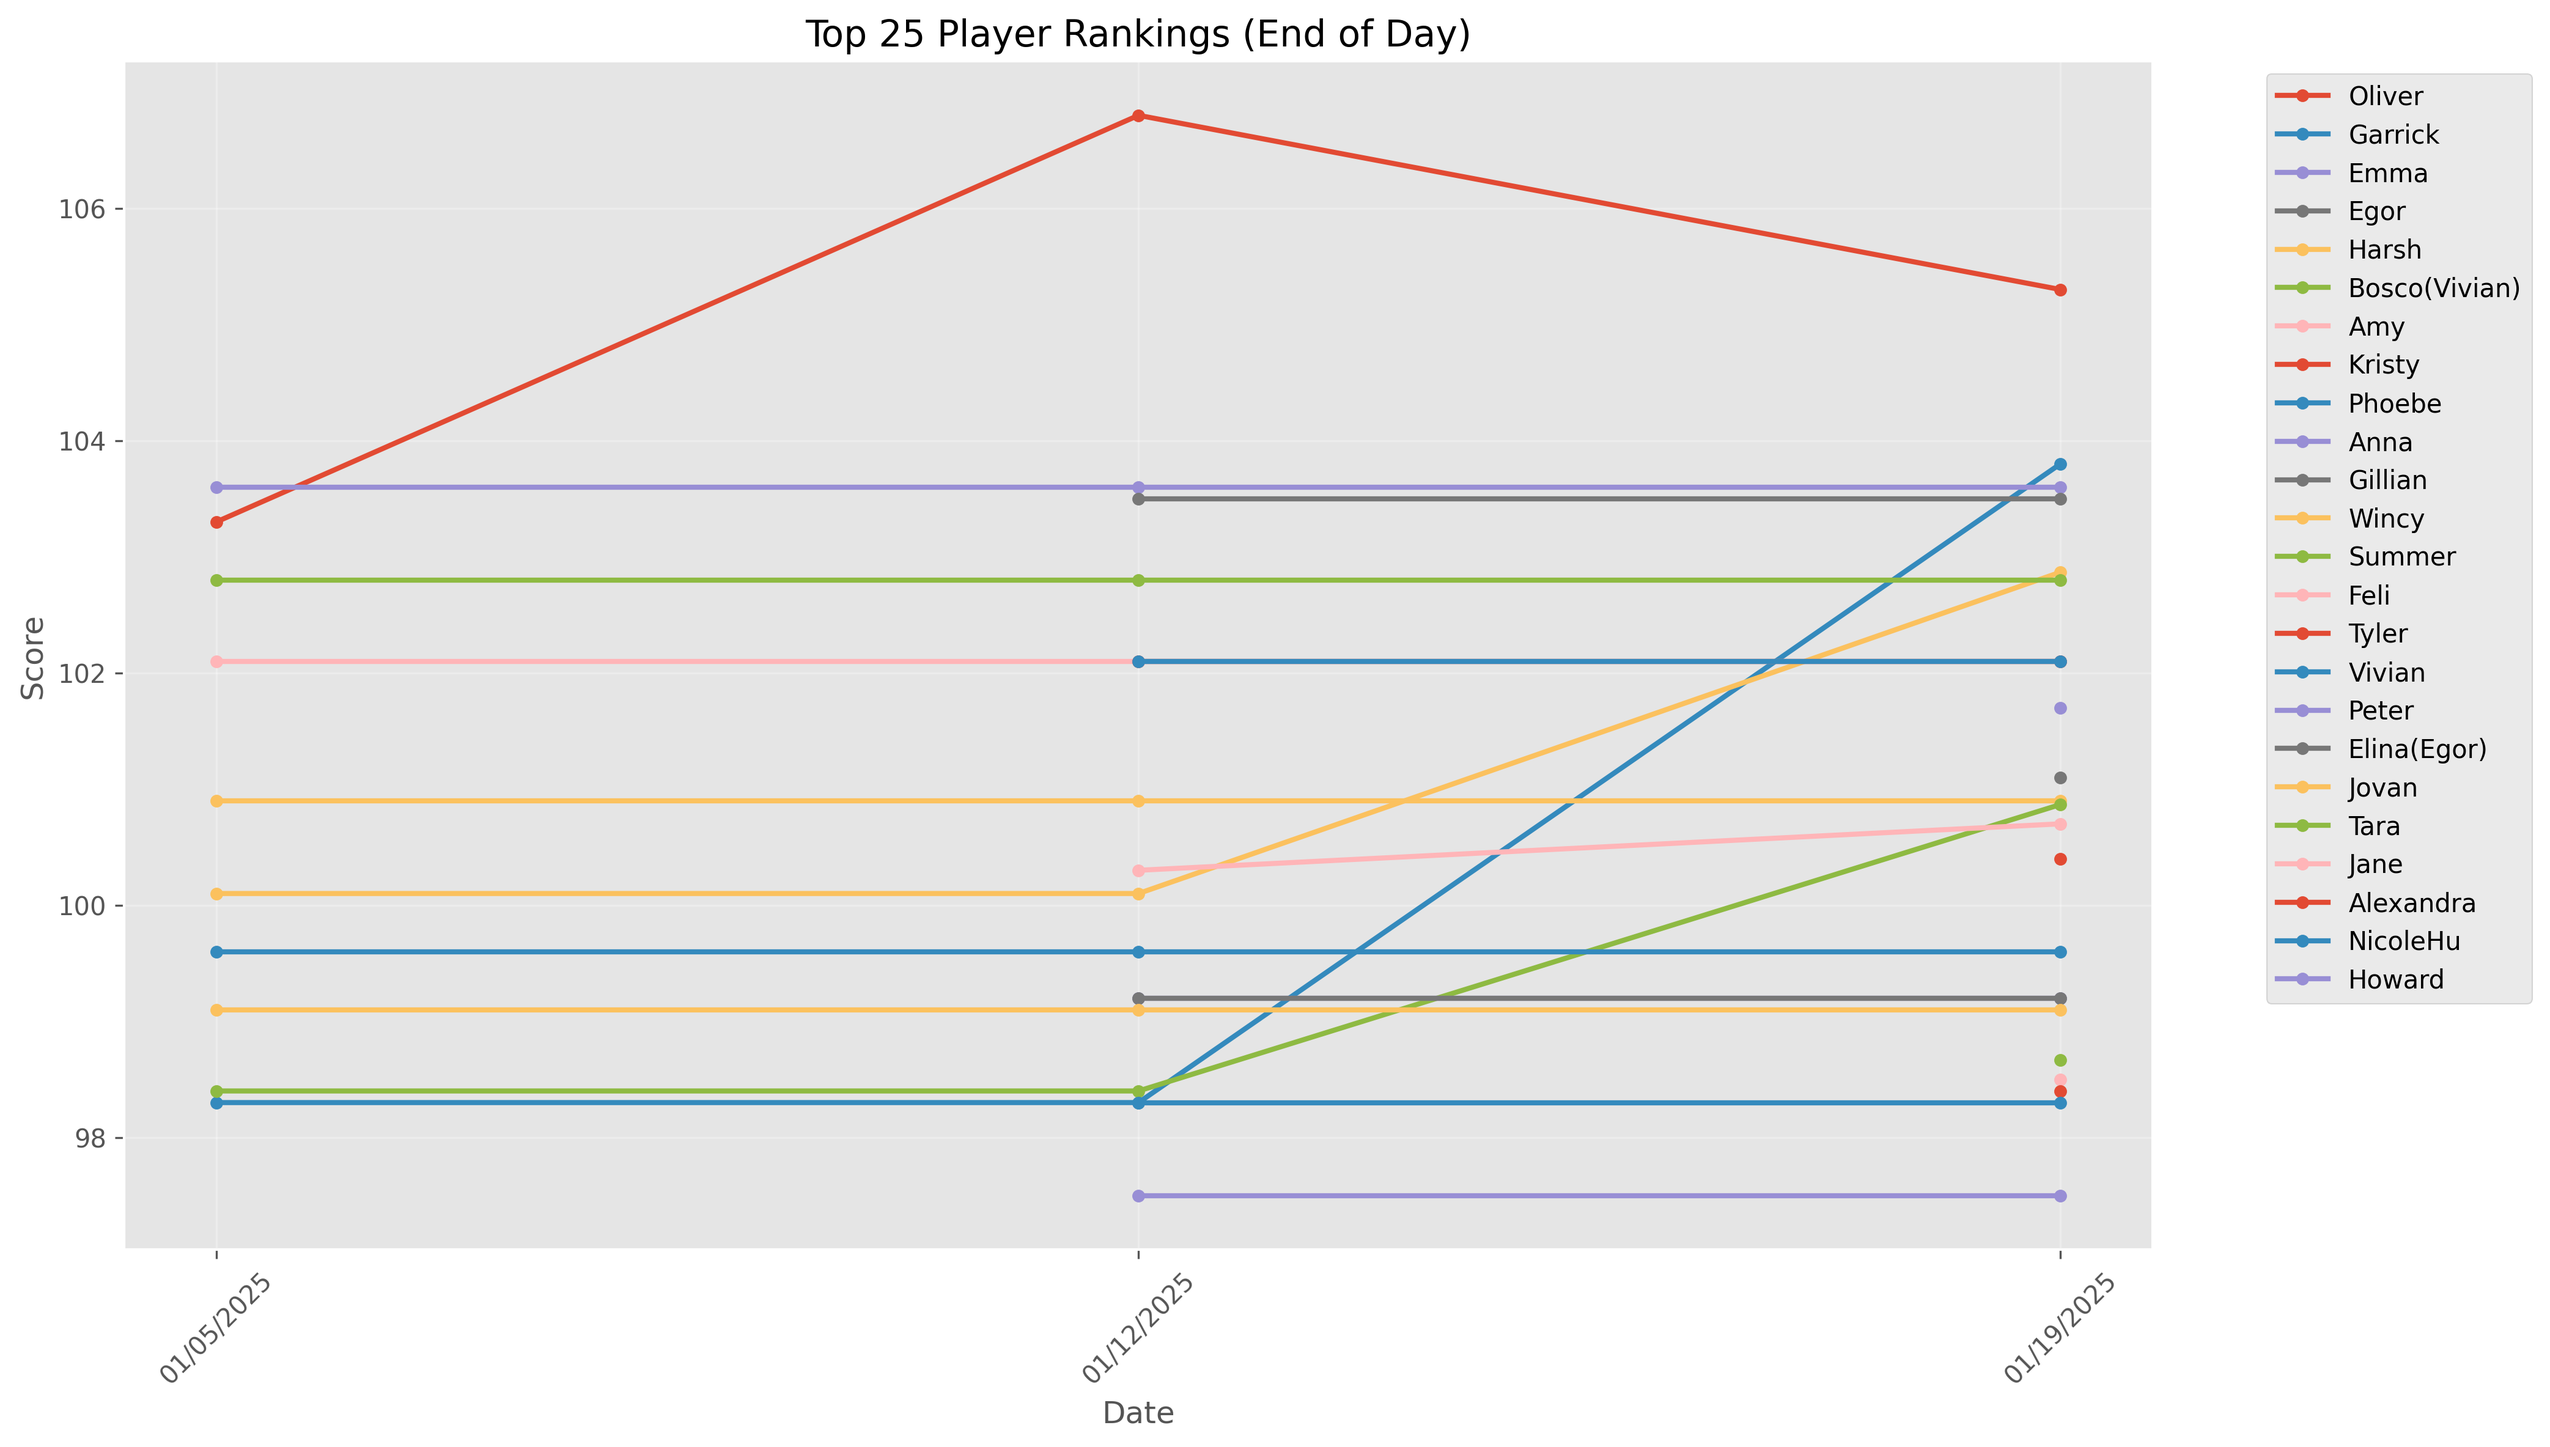
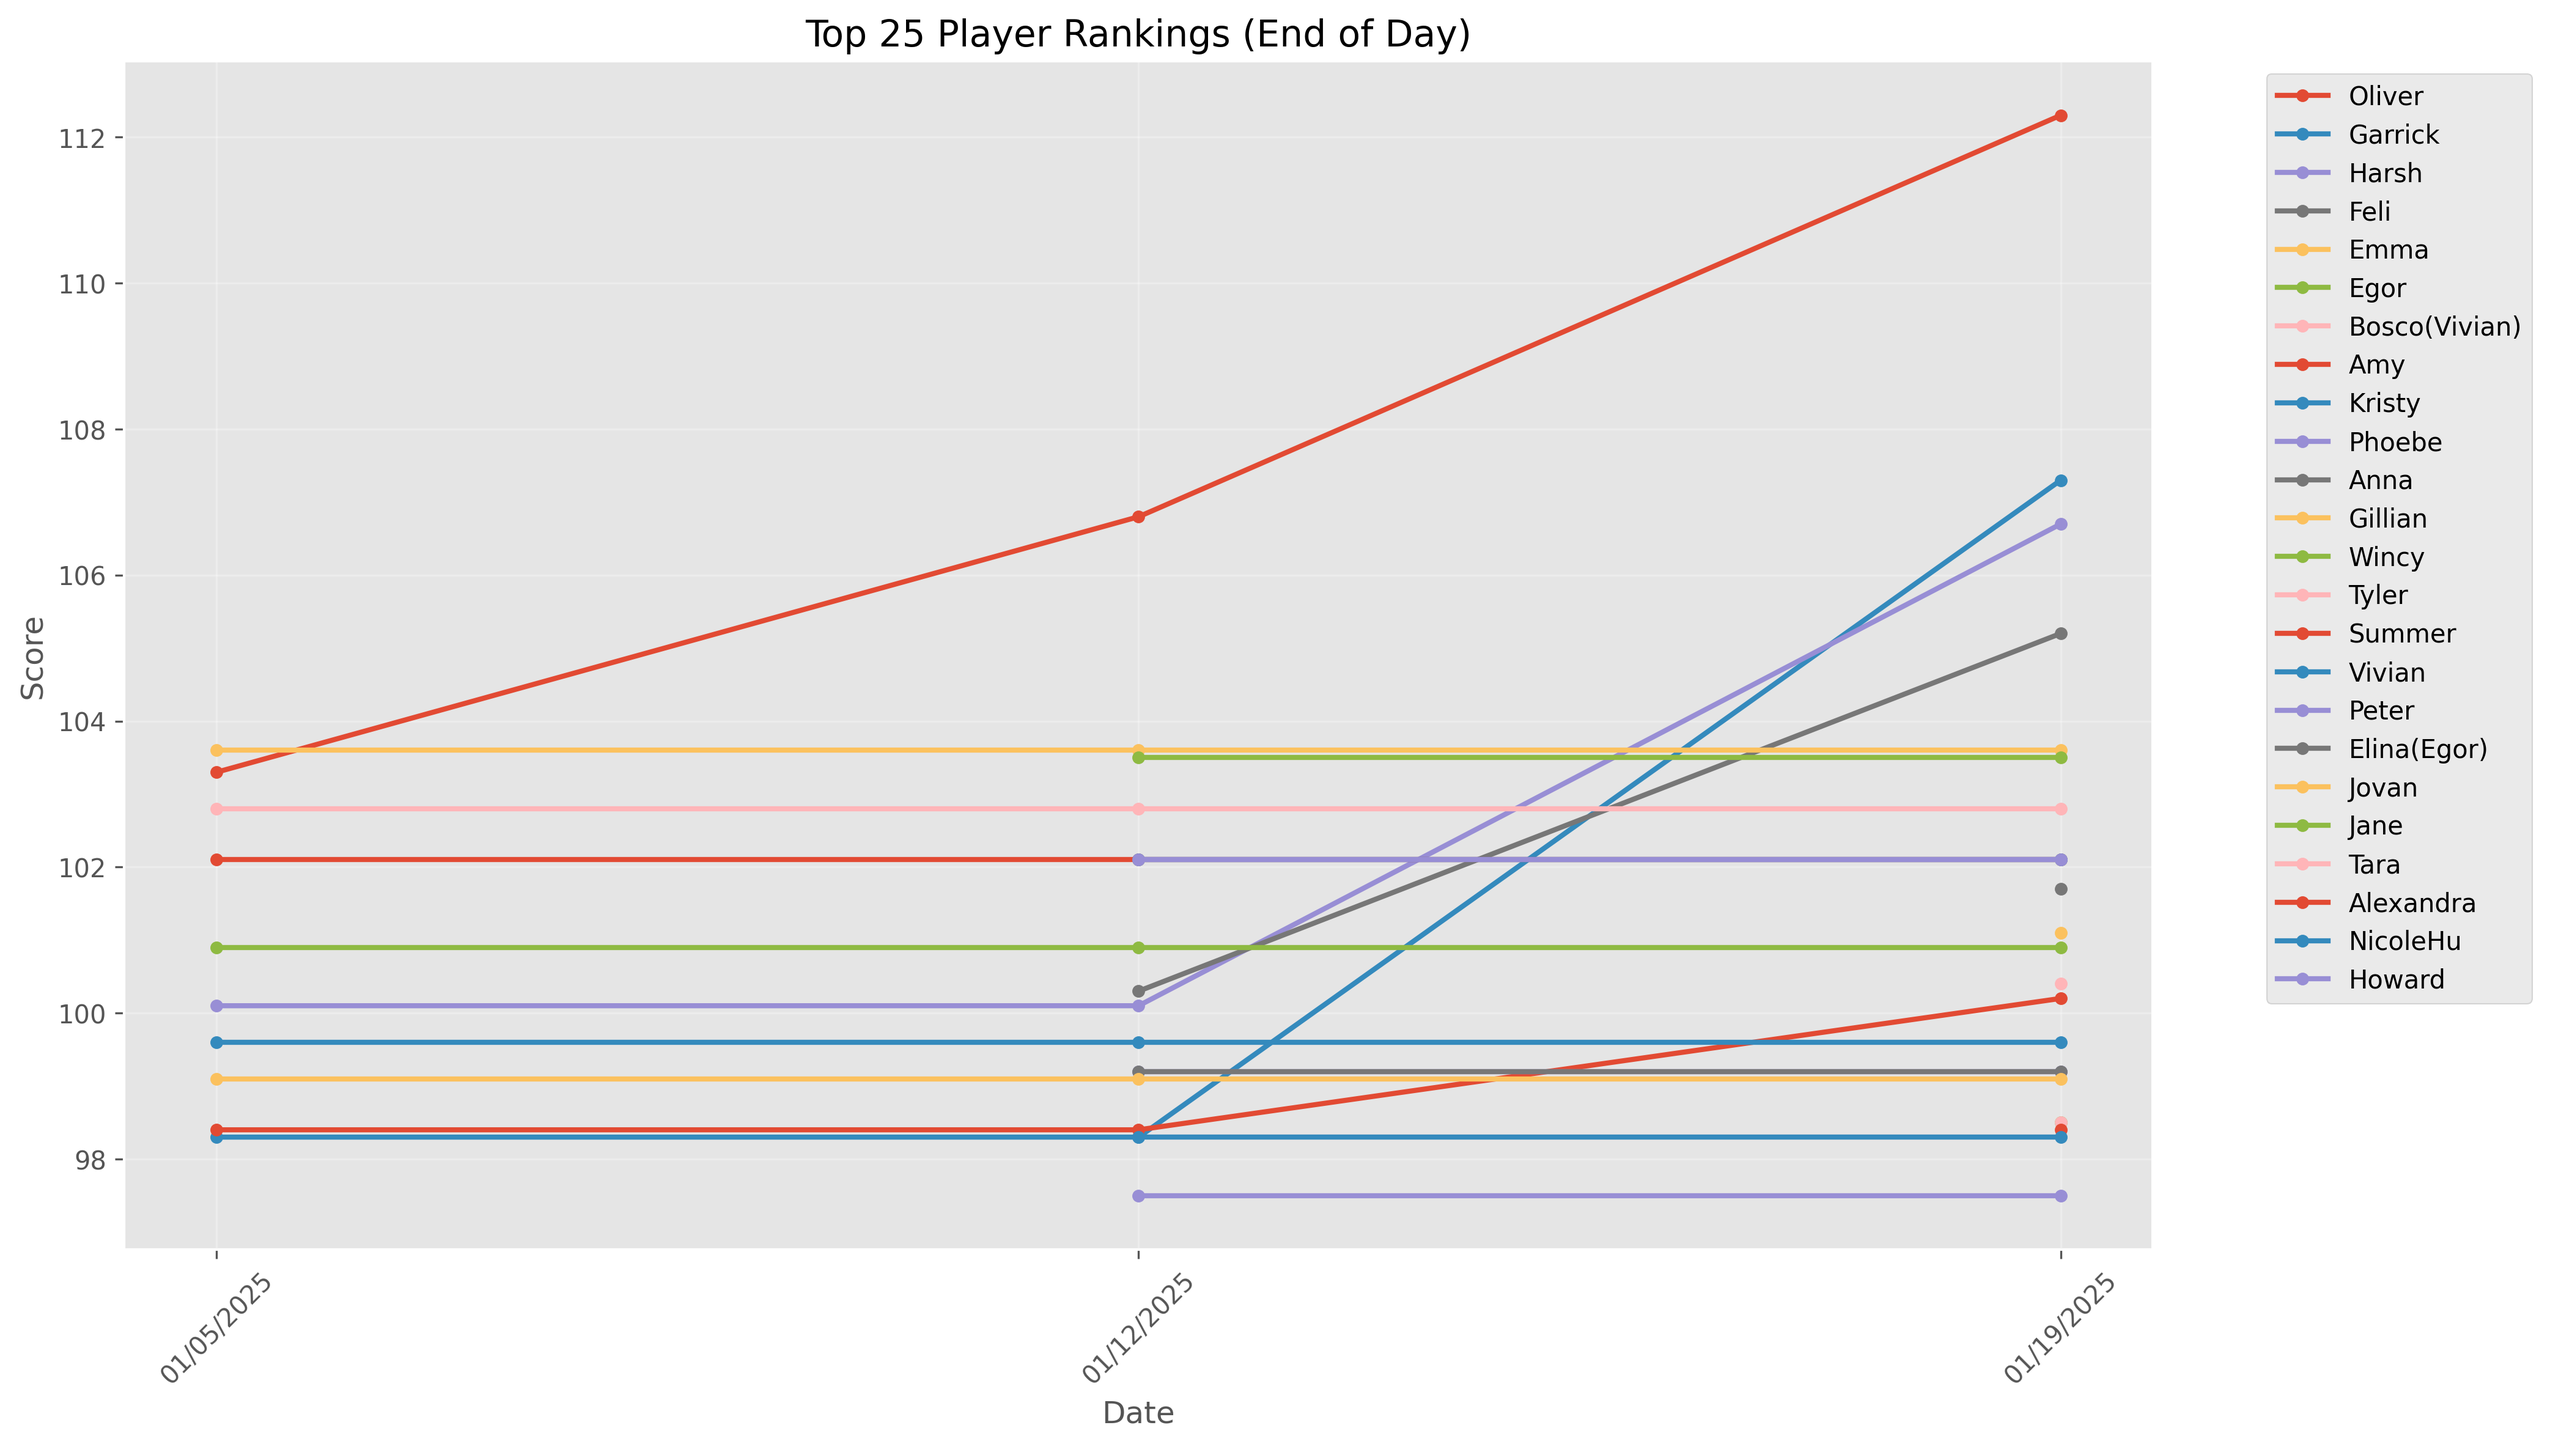
update rankings

diff --git a/parse_results.py b/parse_results.py
@@ -17,7 +17,7 @@ class GameType(Enum):
 
 # Updated CONFIG: Maps Name -> (GameType, Multiplier)
 GAME_CONFIG = {
-    "Bang": (GameType.INDIVIDUAL_WINNNER, 1.0),
+    "Bang": (GameType.INDIVIDUAL_WINNER, 1.0),
     "Incan Gold": (GameType.INDIVIDUAL_RANKED, 1.0),
     "Love Letter": (GameType.INDIVIDUAL_WINNER, 1.0),
     "Shifty Eyed Spies": (GameType.INDIVIDUAL_WINNER, 1.0),

diff --git a/README.md b/README.md
@@ -4,11 +4,12 @@
 
 | Player | Score | Wins | Losses | Win % |
 | --- | --- | --- | --- | --- |
-| Oliver | 105.30 | 9 | 4 | 69% |
-| Garrick | 103.80 | 6 | 7 | 46% |
+| Oliver | 112.30 | 9 | 4 | 69% |
+| Garrick | 107.30 | 6 | 7 | 46% |
+| Harsh | 106.70 | 3 | 3 | 50% |
+| Feli | 105.20 | 2 | 3 | 40% |
 | Emma | 103.60 | 3 | 0 | 100% |
 | Egor | 103.50 | 3 | 1 | 75% |
-| Harsh | 102.87 | 3 | 3 | 50% |
 | Bosco(Vivian) | 102.80 | 3 | 1 | 75% |
 | Amy | 102.10 | 2 | 1 | 67% |
 | Kristy | 102.10 | 2 | 1 | 67% |
@@ -16,15 +17,14 @@
 | Anna | 101.70 | 1 | 0 | 100% |
 | Gillian | 101.10 | 2 | 1 | 67% |
 | Wincy | 100.90 | 1 | 1 | 50% |
-| Summer | 100.87 | 2 | 4 | 33% |
-| Feli | 100.70 | 2 | 3 | 40% |
 | Tyler | 100.40 | 1 | 1 | 50% |
+| Summer | 100.20 | 2 | 4 | 33% |
 | Vivian | 99.60 | 1 | 2 | 33% |
 | Peter | 99.20 | 0 | 1 | 0% |
 | Elina(Egor) | 99.20 | 0 | 1 | 0% |
 | Jovan | 99.10 | 1 | 2 | 33% |
-| Tara | 98.67 | 1 | 4 | 20% |
 | Jane | 98.50 | 1 | 4 | 20% |
+| Tara | 98.50 | 1 | 4 | 20% |
 | Alexandra | 98.40 | 0 | 2 | 0% |
 | NicoleHu | 98.30 | 0 | 3 | 0% |
 | Howard | 97.50 | 0 | 4 | 0% |
@@ -37,13 +37,13 @@
 
 | Player | Wins | Losses | Win % |
 | --- | --- | --- | --- |
-| Garrick | 1 | 1 | 50% |
 | Feli | 1 | 0 | 100% |
+| Garrick | 1 | 1 | 50% |
 | Harsh | 1 | 1 | 50% |
-| Summer | 0 | 2 | 0% |
-| Tara | 0 | 2 | 0% |
-| Jane | 0 | 2 | 0% |
 | Oliver | 1 | 1 | 50% |
+| Jane | 0 | 2 | 0% |
+| Tara | 0 | 2 | 0% |
+| Summer | 0 | 2 | 0% |
 
 ### Codenames
 
